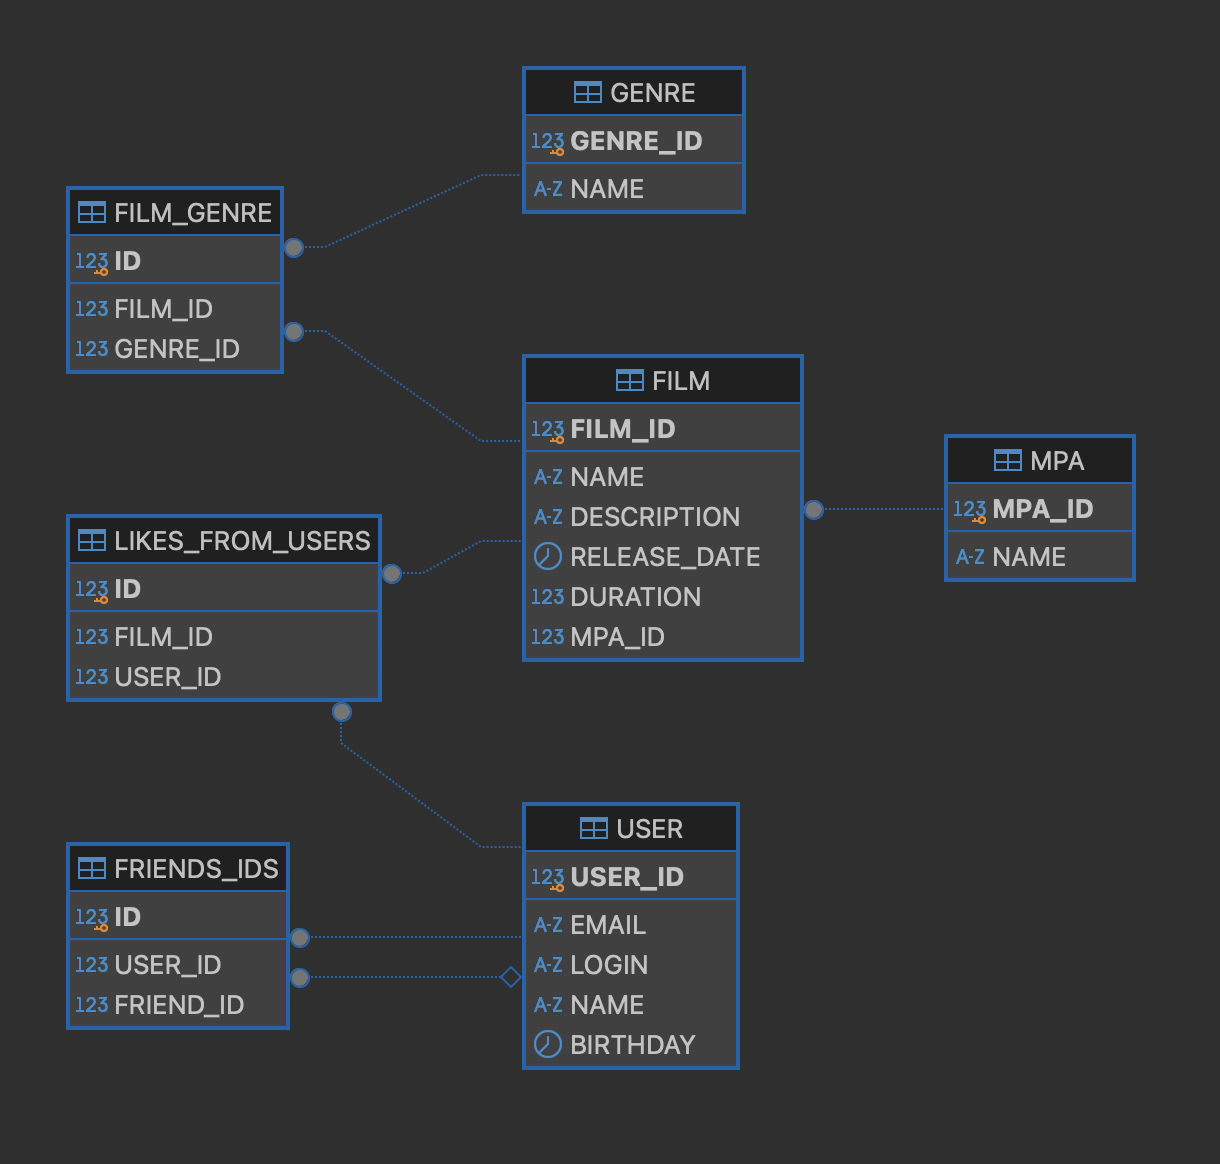
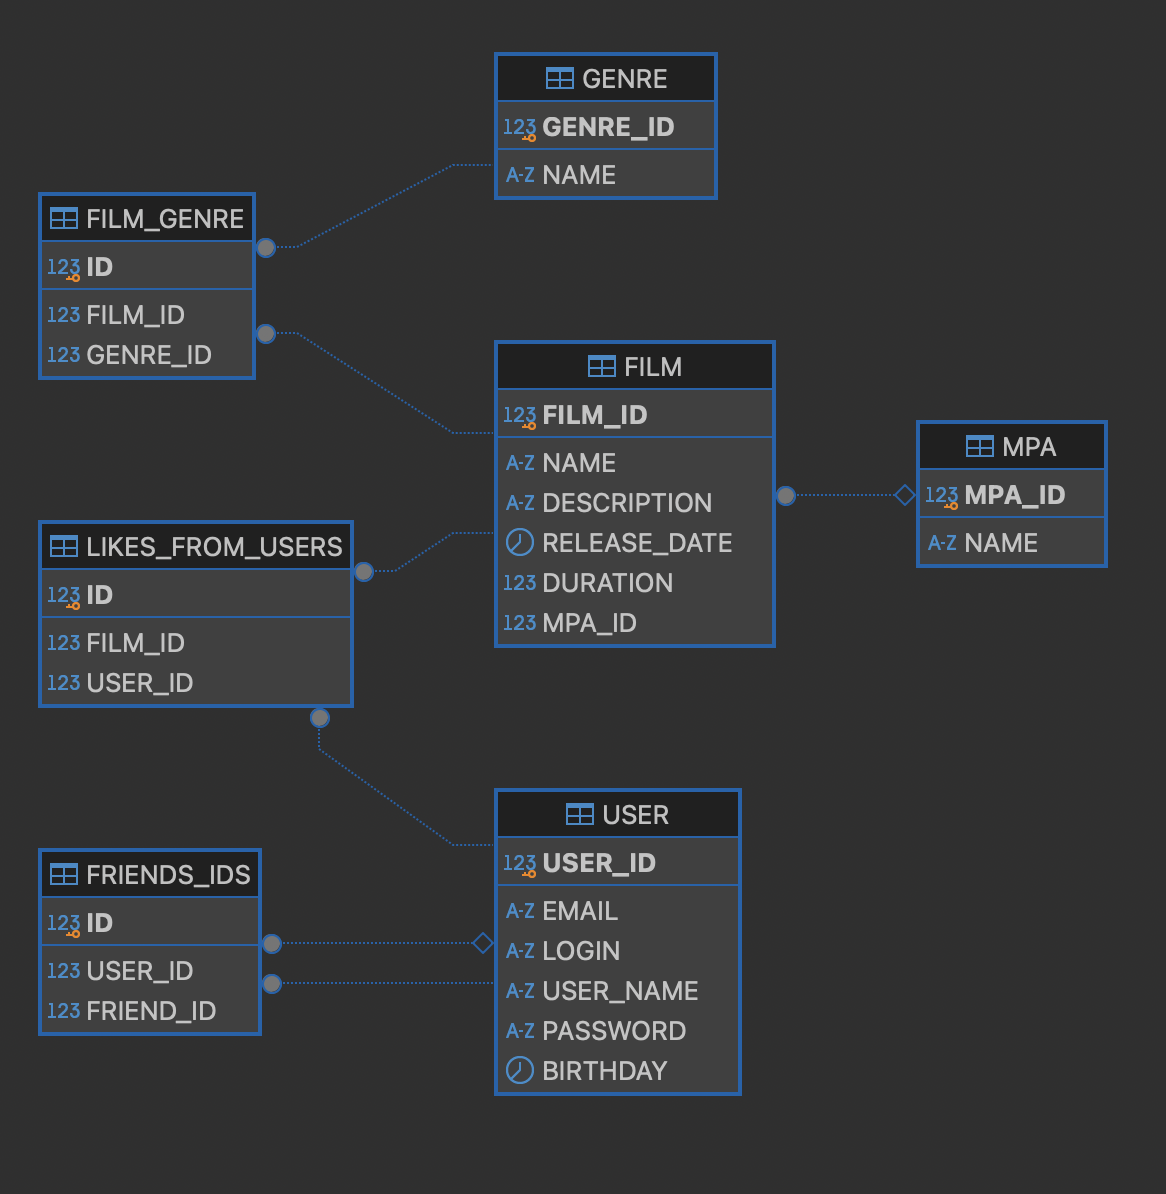
ФЗ 12: - Доработать Mpa. Запрос get должен возвращать id и name        - Добавить новое изображение БД

diff --git a/src/main/java/ru/yandex/practicum/filmorate/service/MpaService.java b/src/main/java/ru/yandex/practicum/filmorate/service/MpaService.java
@@ -14,20 +14,20 @@ import java.util.Optional;
 @Service
 @RequiredArgsConstructor
 public class MpaService {
-    MpaStorage mpaRepository;
+    private final MpaStorage mpaStorage;
 
     public List<Mpa> findAll() {
-        return mpaRepository.findAll();
+        return mpaStorage.findAll();
     }
 
     public Mpa findById(long mpaId) {
-        Optional<Mpa> existMpa = mpaRepository.findById(mpaId);
+        Optional<Mpa> existMpa = mpaStorage.findById(mpaId);
         if (existMpa.isEmpty()) {
             log.error("Рейтинг с id {} не найден", mpaId);
-            throw new NotFoundException("userId не найден.");
+            throw new NotFoundException("id mpa не найден.");
         }
         log.trace("Получен рейтинг фильма по его id: {}", mpaId);
 
-        return mpaRepository.findById(mpaId).get();
+        return mpaStorage.findById(mpaId).get();
     }
 }

diff --git a/src/main/java/ru/yandex/practicum/filmorate/model/Mpa.java b/src/main/java/ru/yandex/practicum/filmorate/model/Mpa.java
@@ -1,12 +1,9 @@
 package ru.yandex.practicum.filmorate.model;
 
-import jakarta.validation.constraints.Max;
-import jakarta.validation.constraints.Min;
 import lombok.Data;
 
 @Data
 public class Mpa {
-    @Min(value = 1, message = "Рейтинга с id меньше 1 нет")
-    @Max(value = 5, message = "Рейтинга с id больше 5 нет")
     private long id;
+    private String name;
 }

diff --git a/src/main/java/ru/yandex/practicum/filmorate/controller/MpaController.java b/src/main/java/ru/yandex/practicum/filmorate/controller/MpaController.java
@@ -12,7 +12,7 @@ import java.util.List;
 @RestController
 @RequiredArgsConstructor
 public class MpaController {
-    MpaService mpaService;
+    private final MpaService mpaService;
 
     @GetMapping("/mpa")
     public List<Mpa> getMpa() {

diff --git a/src/main/java/ru/yandex/practicum/filmorate/storage/dal/mappers/MpaRowMapper.java b/src/main/java/ru/yandex/practicum/filmorate/storage/dal/mappers/MpaRowMapper.java
@@ -14,6 +14,7 @@ public class MpaRowMapper implements RowMapper<Mpa> {
         Mpa mpa = new Mpa();
 
         mpa.setId(resultSet.getLong("MPA_ID"));
+        mpa.setName(resultSet.getString("NAME"));
 
         return mpa;
     }
